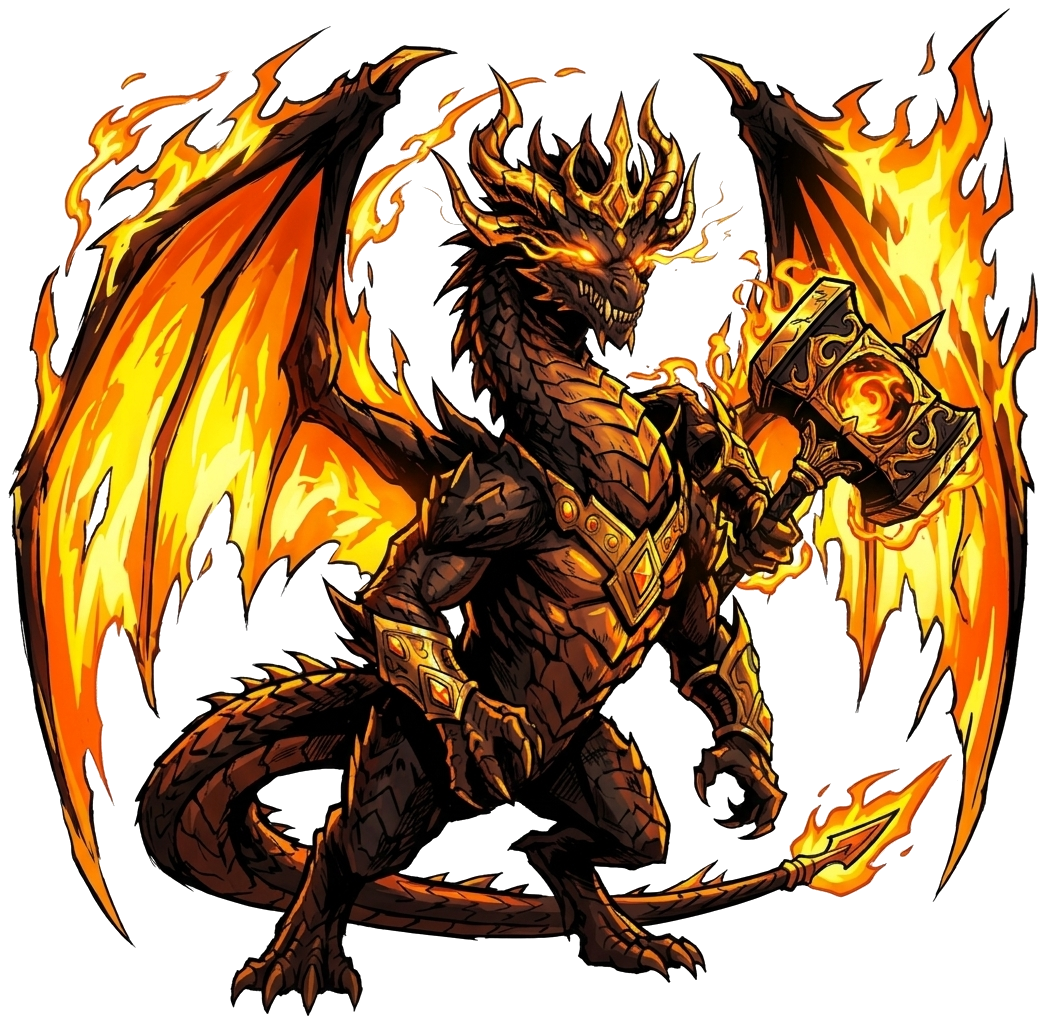
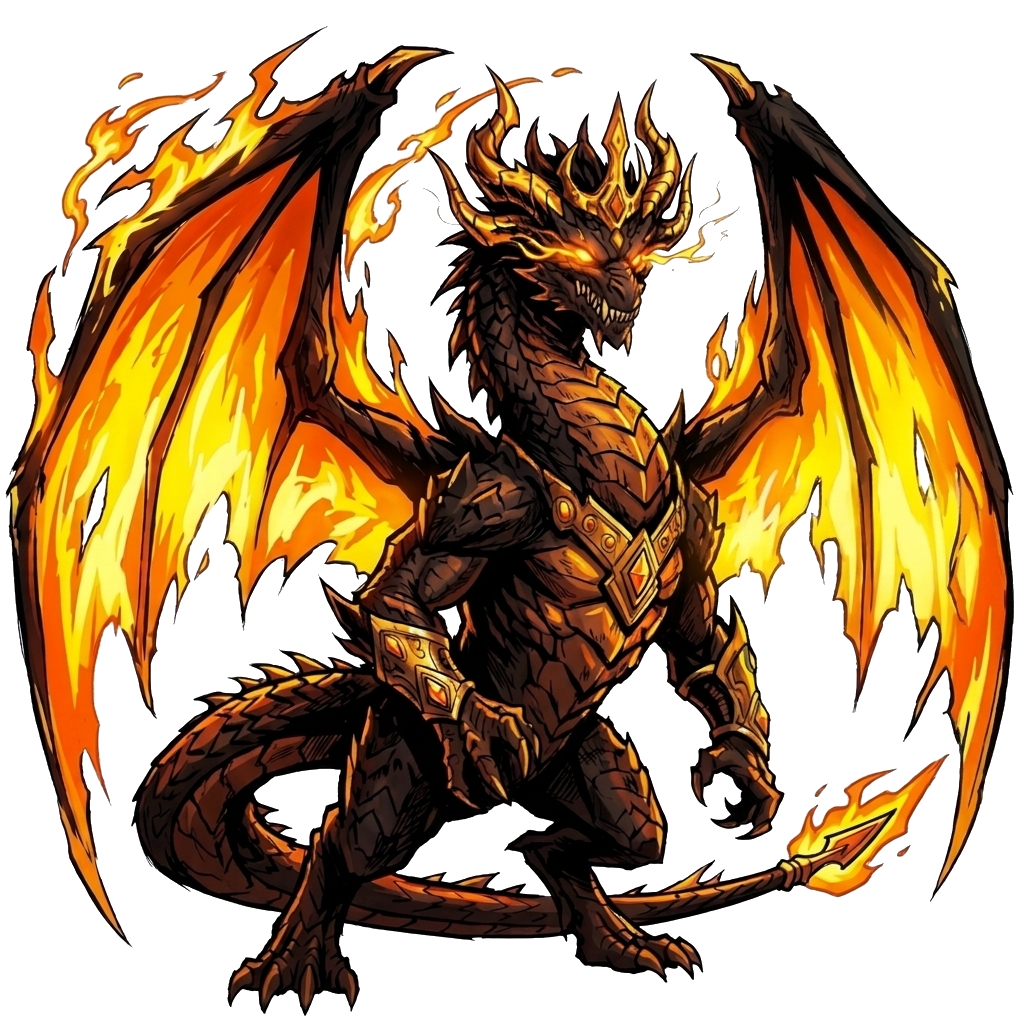
fix(art): remove unwanted hammer on Pyroclasmos Imperador das Chamas

diff --git a/src/components/CardView.tsx b/src/components/CardView.tsx
@@ -363,7 +363,7 @@ export const CardView: React.FC<CardViewProps> = ({
           <div className={`mtg-token-art aura-${displayCard.domain}`}>
             {!imgError && displayCard.imagePath ? (
               <img
-                src={`${displayCard.imagePath}?v=51`}
+                src={`${displayCard.imagePath}?v=52`}
                 alt={displayName}
                 className="mtg-token-img"
                 onError={() => setImgError(true)}
@@ -520,7 +520,7 @@ export const CardView: React.FC<CardViewProps> = ({
 
           {!imgError && displayCard.imagePath ? (
             <img
-              src={`${displayCard.imagePath}?v=51`}
+              src={`${displayCard.imagePath}?v=52`}
               alt={displayName}
               className="card-cutout-img"
               onError={() => setImgError(true)}

diff --git a/src/components/MythologyAtlasView.tsx b/src/components/MythologyAtlasView.tsx
@@ -342,7 +342,7 @@ export const MythologyAtlasView: React.FC<MythologyAtlasViewProps> = ({ onInspec
                         title={`Clique para inspecionar ${card.name}`}
                       >
                         <img
-                          src={`${card.imagePath}?v=24`}
+                          src={`${card.imagePath}?v=25`}
                           alt={card.name}
                           className="poem-card-medallion-img"
                           loading="lazy"
